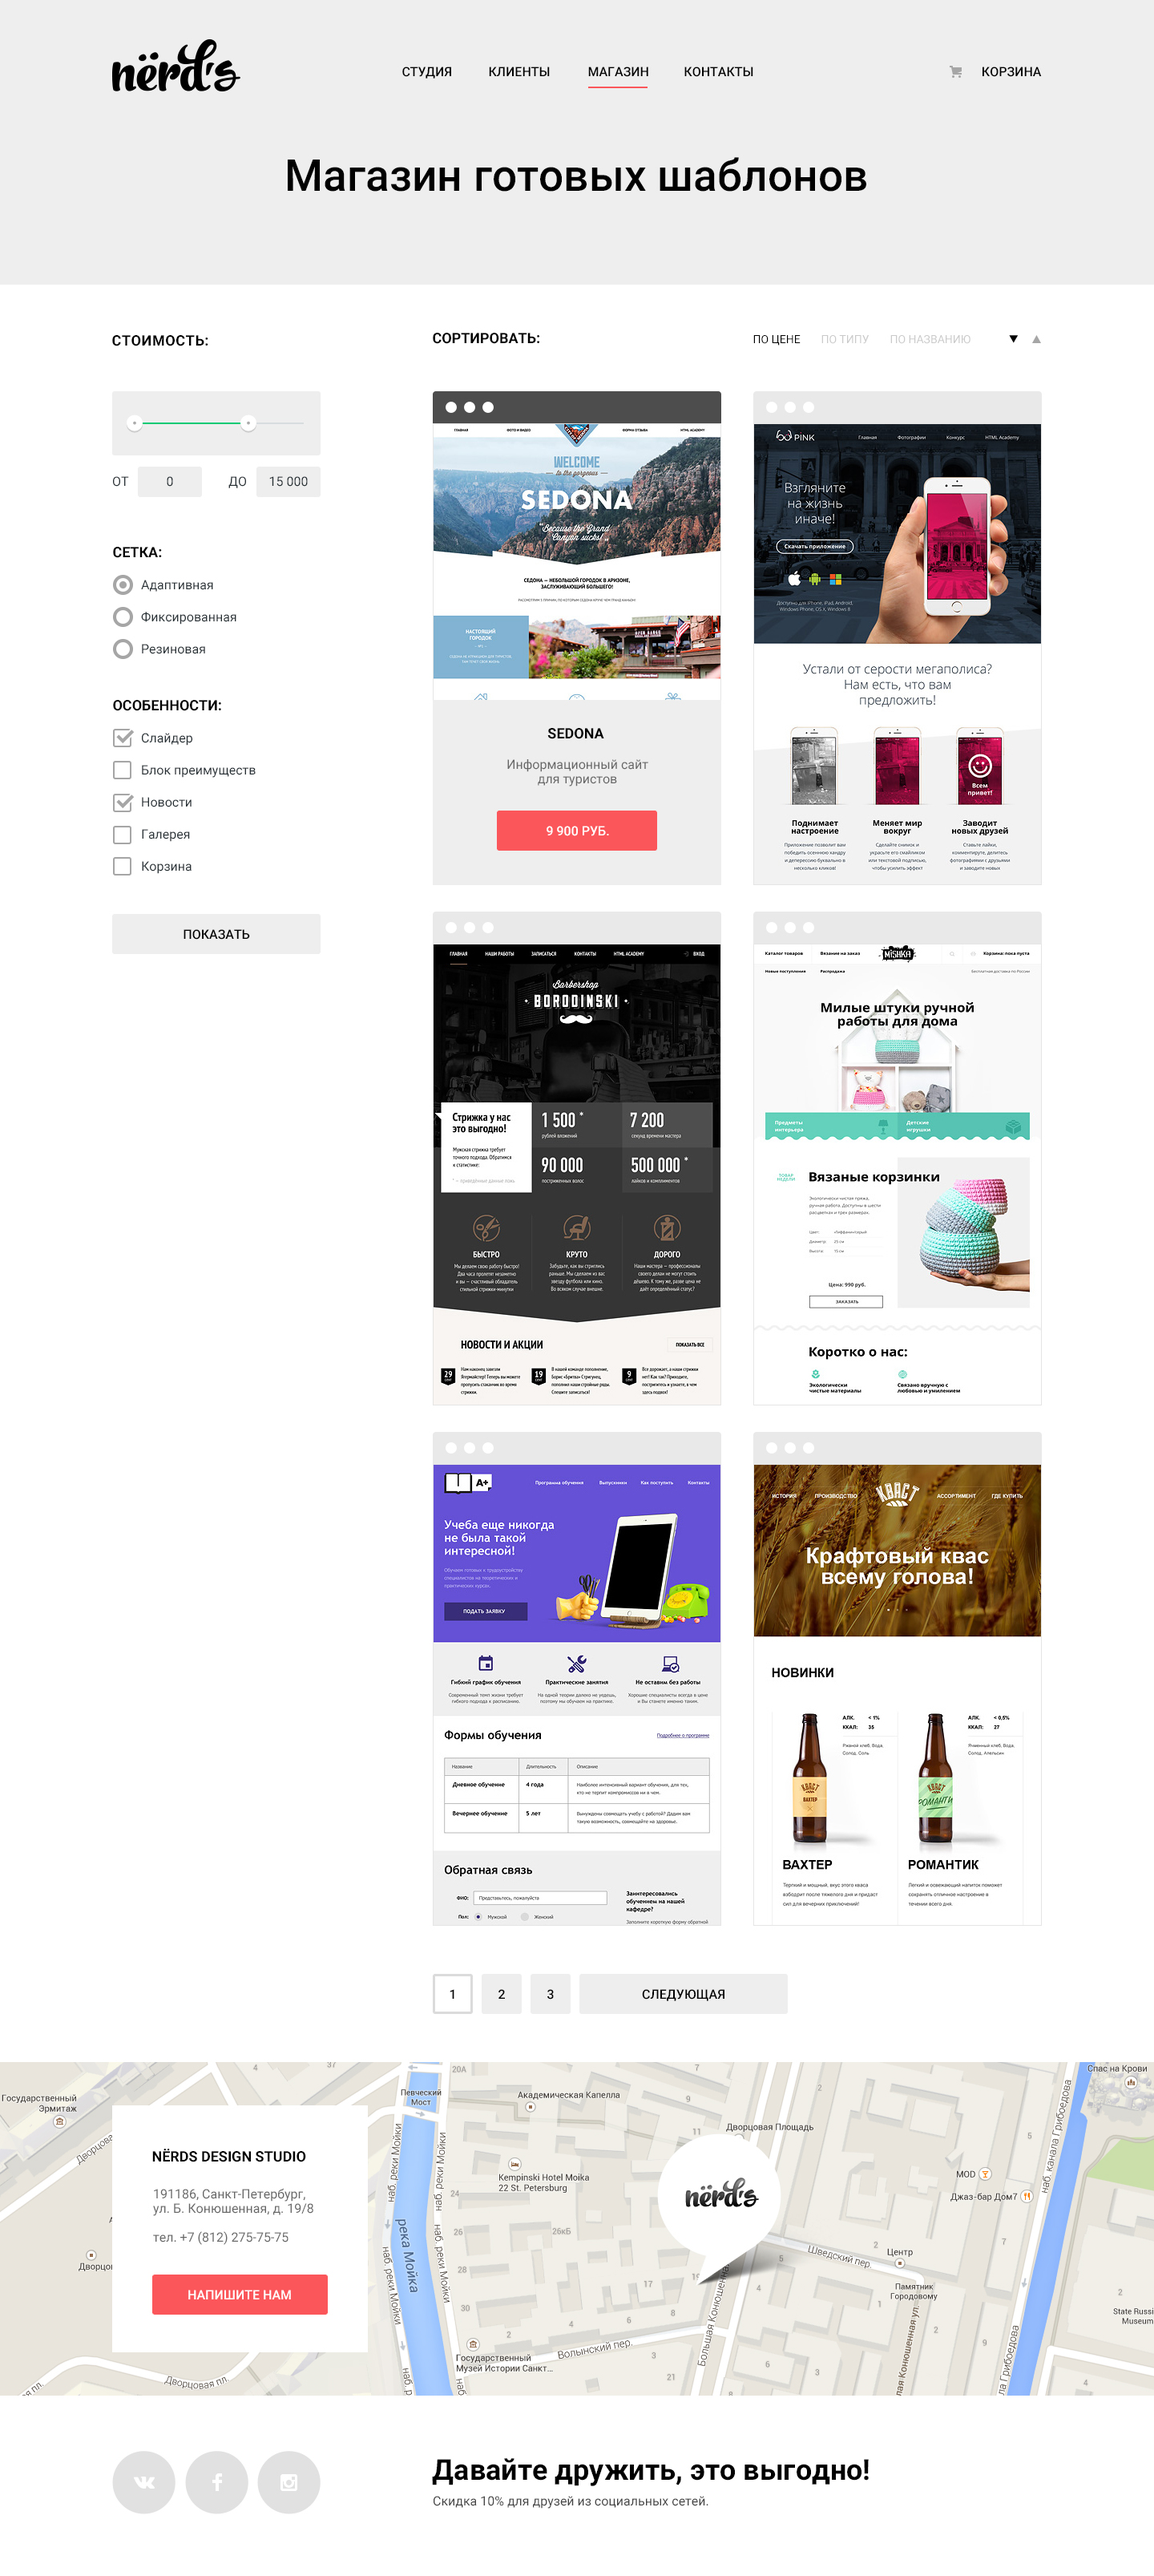
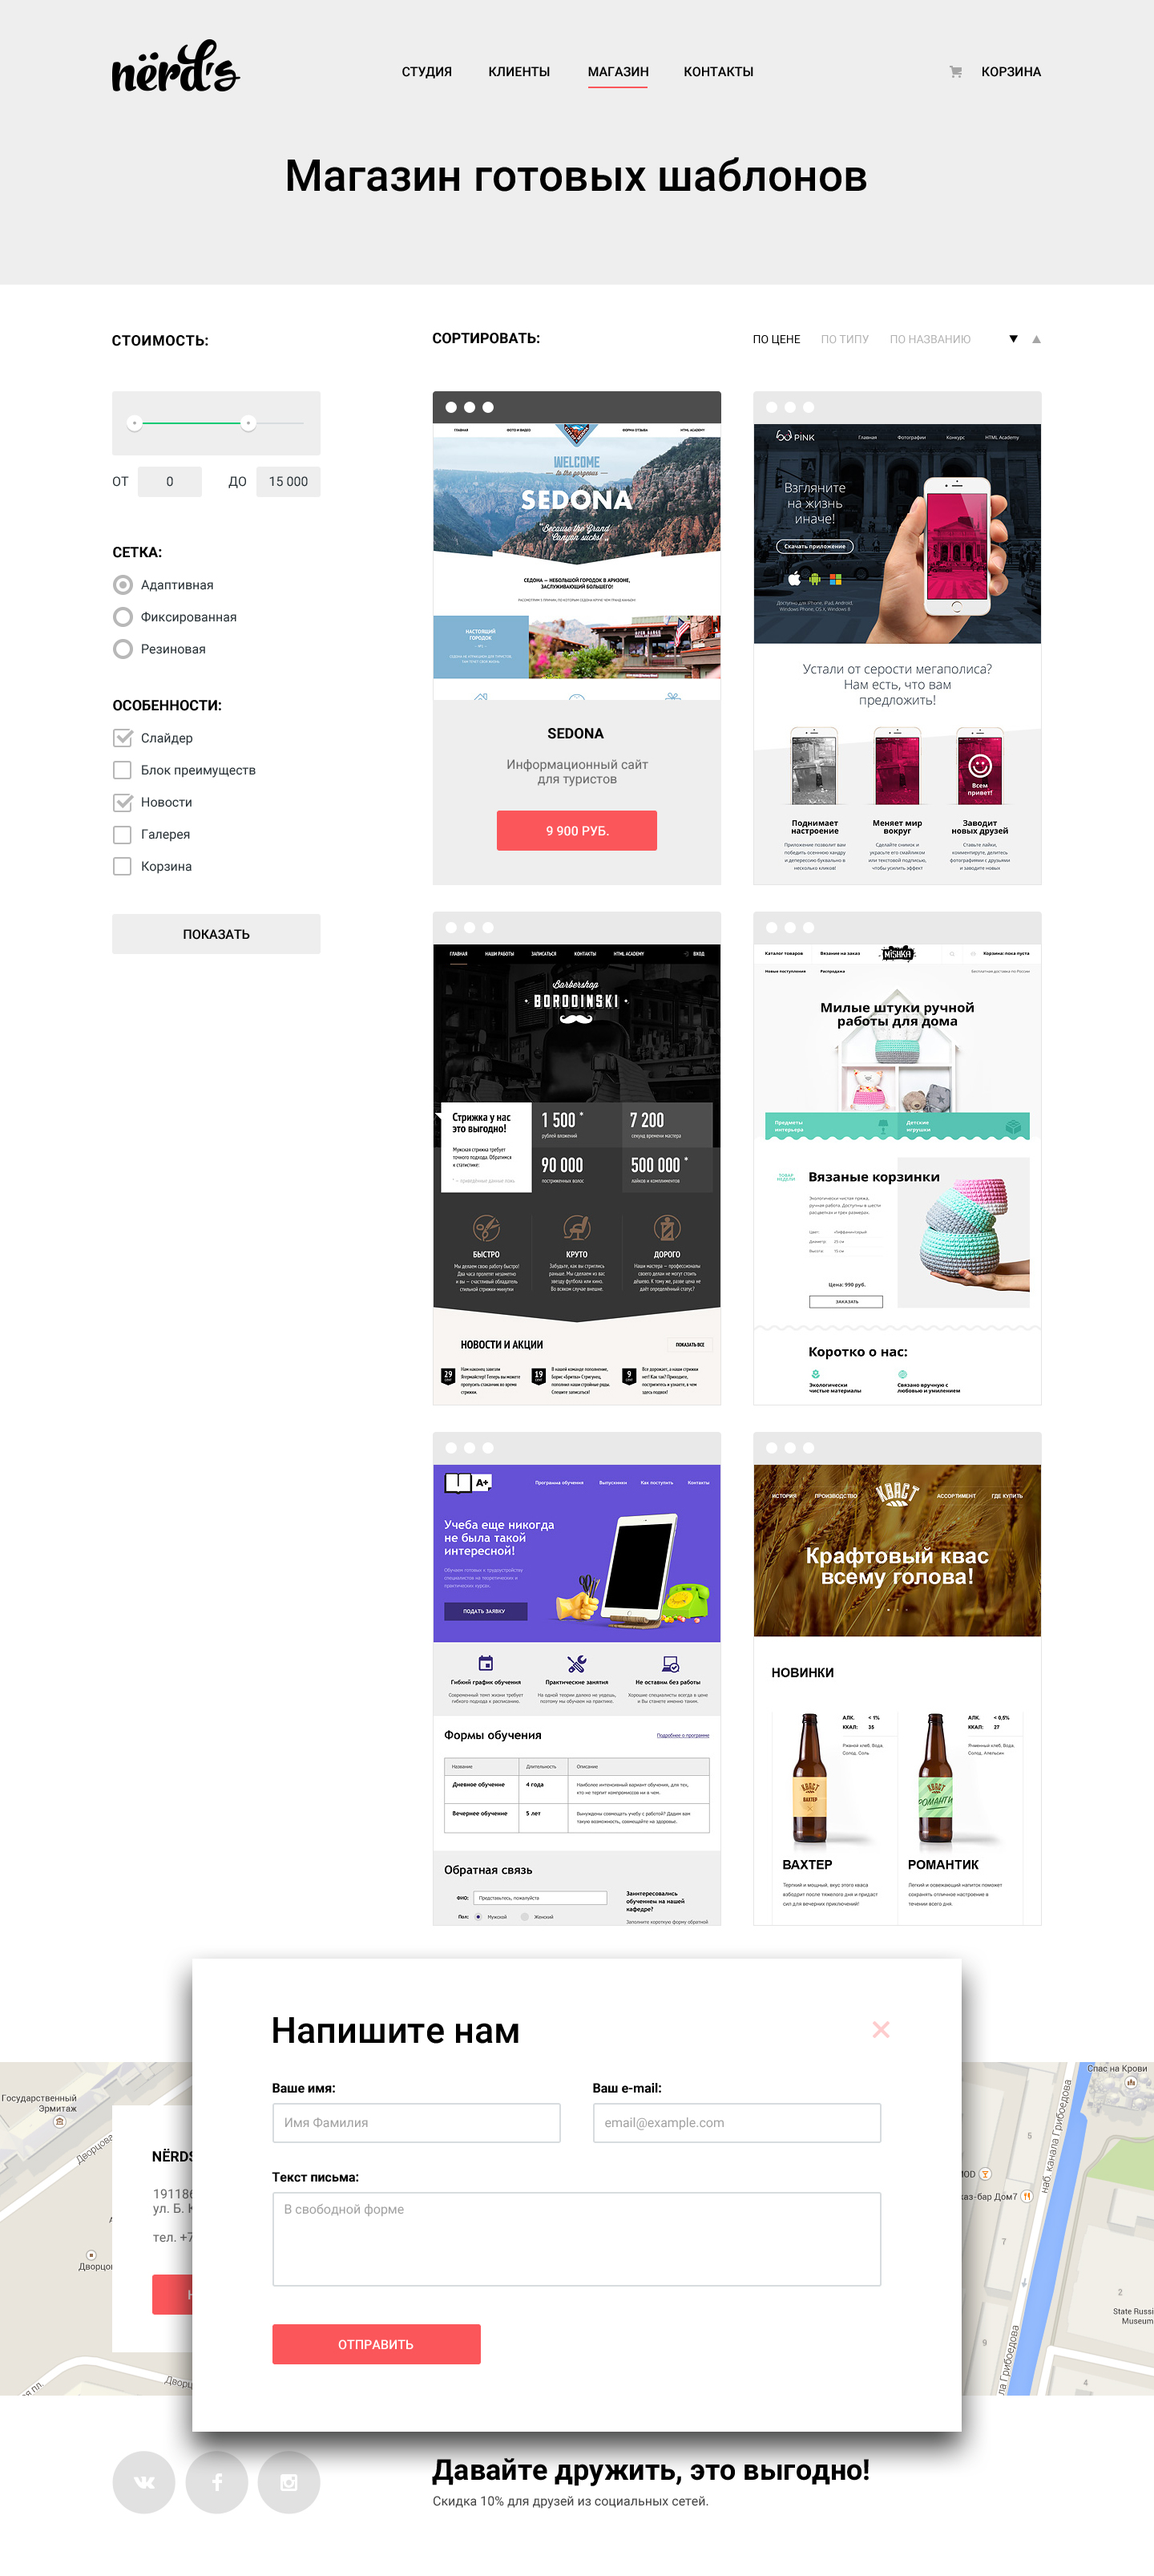
модал

Changed region(s): [[0.125, 0.747, 0.875, 0.9648]]

diff --git a/catalog.html b/catalog.html
@@ -308,12 +308,12 @@
   </div>
 </footer>
 
-<div class="modal fade d-none" id="exampleModal" tabindex="-1" role="dialog" aria-labelledby="exampleModalLabel"
+<div class="modal fade" id="exampleModal" tabindex="-1" role="dialog" aria-labelledby="exampleModalLabel"
      aria-hidden="true">
   <div class="modal-dialog" role="document">
     <div class="modal-content">
       <div class="modal-header">
-        <h5 class="modal-title" id="exampleModalLabel">Напишите нам</h5>
+        <h5 class="modal-title h2" id="exampleModalLabel">Напишите нам</h5>
         <button type="button" class="close" data-dismiss="modal" aria-label="Close">
           <span aria-hidden="true" class="fas fa-close"></span>
         </button>
@@ -321,22 +321,31 @@
       <div class="modal-body">
         <form method="post">
           <div class="row">
-            <div class="col">
-              <label for="name">
+            <div class="col-6">
+              <label for="name" class="roboto-medium">
                 Ваше имя</label>
-              <input type="text" id="name" class="form-control" name="name" placeholder="Имя Фамилия">
+              <div class="form-group">
+                <input type="text" id="name" class="form-control w-100" name="name" placeholder="Имя Фамилия">
+              </div>
             </div>
-            <div class="col">
-              <label for="email">
+            <div class="col-6">
+              <label for="email" class="roboto-medium">
                 Ваш e-mail</label>
-              <input type="email" id="email" name="email" class="form-control" placeholder="email@example.com">
+              <div class="form-group">
+                <input type="email" id="email" name="email" class="form-control w-100" placeholder="email@example.com">
+              </div>
             </div>
           </div>
-          <label for="text">
-            Текст письма:</label>
-          <textarea name="text" id="text" cols="30" rows="10" class="form-control"
+          <div class="form-textarea">
+
+            <label for="text" class="roboto-medium">
+              Текст письма:</label>
+            <div class="form-group">
+          <textarea name="text" id="text" cols="30" rows="10" class="form-control w-100"
                     placeholder="В свободной форме"></textarea>
-          <button type="submit" class="btn btn-red">Отправить</button>
+            </div>
+          </div>
+          <button type="submit" class="btn btn-red text-uppercase">Отправить</button>
         </form>
       </div>
     </div>

diff --git a/css/style.less b/css/style.less
@@ -57,30 +57,44 @@ html {
   box-sizing: inherit;
 }
 
-.layout {
-  position: absolute;
-  top: 0;
-  left: 0;
-  background-image: url("../img/nerds-index.jpg");
-  width: 100%;
-  height: 2476px;
-  background-repeat: no-repeat;
-  background-position: center top;
-  opacity: .5;
-}
-
 .layout2 {
-  position: absolute;
-  top: 0;
-  left: 0;
-  background-image: url("../img/nerds-catalog.jpg");
-  width: 100%;
-  height: 3213px;
-  background-repeat: no-repeat;
-  opacity: .5;
-  background-position: center top;
 
+  position: fixed;
+  top: 50%;
+  left: 50%;
+  transform: translate(-50%, -50%);
+  background-image: url("../img/write-us.jpg");
+  width: 100%;
+  height: 664px;
+  background-repeat: no-repeat;
+  background-position: center top;
+  opacity: 1;
 }
+//
+//.layout {
+//  position: absolute;
+//  top: 0;
+//  left: 0;
+//  background-image: url("../img/nerds-index.jpg");
+//  width: 100%;
+//  height: 2476px;
+//  background-repeat: no-repeat;
+//  background-position: center top;
+//  opacity: .5;
+//}
+//
+//.layout2 {
+//  position: absolute;
+//  top: 0;
+//  left: 0;
+//  background-image: url("../img/nerds-catalog.jpg");
+//  width: 100%;
+//  height: 3213px;
+//  background-repeat: no-repeat;
+//  opacity: .5;
+//  background-position: center top;
+//
+//}
 
 .container {
   width: 1200px;
@@ -181,7 +195,14 @@ html {
 .form {
   max-width: 260px;
 
-  &-group {
+  &-textarea {
+    margin-top: 30px;
+    margin-bottom: 46px;
+  }
+  &-control {
+    border: 1px solid #d7dcde;
+    padding: 10px;
+    margin-top: 10px;
   }
 }
 
@@ -231,7 +252,30 @@ html {
     margin-top: 60px;
   }
 }
-
+.modal{
+  position: fixed;
+  top: 43%;
+  left: 50%;
+  transform: translate(-50%, -50%);
+  //max-width: 90%;
+  width: 960px;
+  background: @bg2;
+  box-shadow: 0 20px 40px 0 @black;
+  //opacity: .8;
+  &-dialog{}
+  &-body{
+    margin-top: 20px;
+    .btn{
+      padding: 20px 80px;
+    }
+  }
+  &-title{
+    margin: 15px 0 0 0;
+  }
+  &-content{
+    padding: 46px 100px;
+  }
+}
 .check {
   width: 200px;
   display: block;

diff --git a/css/style.css b/css/style.css
@@ -32,27 +32,17 @@ html {
 *::after {
   box-sizing: inherit;
 }
-.layout {
-  position: absolute;
-  top: 0;
-  left: 0;
-  background-image: url("../img/nerds-index.jpg");
-  width: 100%;
-  height: 2476px;
-  background-repeat: no-repeat;
-  background-position: center top;
-  opacity: 0.5;
-}
 .layout2 {
-  position: absolute;
-  top: 0;
-  left: 0;
-  background-image: url("../img/nerds-catalog.jpg");
+  position: fixed;
+  top: 50%;
+  left: 50%;
+  transform: translate(-50%, -50%);
+  background-image: url("../img/write-us.jpg");
   width: 100%;
-  height: 3213px;
+  height: 664px;
   background-repeat: no-repeat;
-  opacity: 0.5;
   background-position: center top;
+  opacity: 1;
 }
 .container {
   width: 1200px;
@@ -132,6 +122,15 @@ html {
 .form {
   max-width: 260px;
 }
+.form-textarea {
+  margin-top: 30px;
+  margin-bottom: 46px;
+}
+.form-control {
+  border: 1px solid #d7dcde;
+  padding: 10px;
+  margin-top: 10px;
+}
 .fake,
 .check-fake {
   background-image: url("../img/icons/radio-off.svg");
@@ -164,6 +163,27 @@ html {
 }
 .radio-section {
   margin-top: 60px;
+}
+.modal {
+  position: fixed;
+  top: 43%;
+  left: 50%;
+  transform: translate(-50%, -50%);
+  width: 960px;
+  background: #ffffff;
+  box-shadow: 0 20px 40px 0 #000000;
+}
+.modal-body {
+  margin-top: 20px;
+}
+.modal-body .btn {
+  padding: 20px 80px;
+}
+.modal-title {
+  margin: 15px 0 0 0;
+}
+.modal-content {
+  padding: 46px 100px;
 }
 .check {
   width: 200px;
